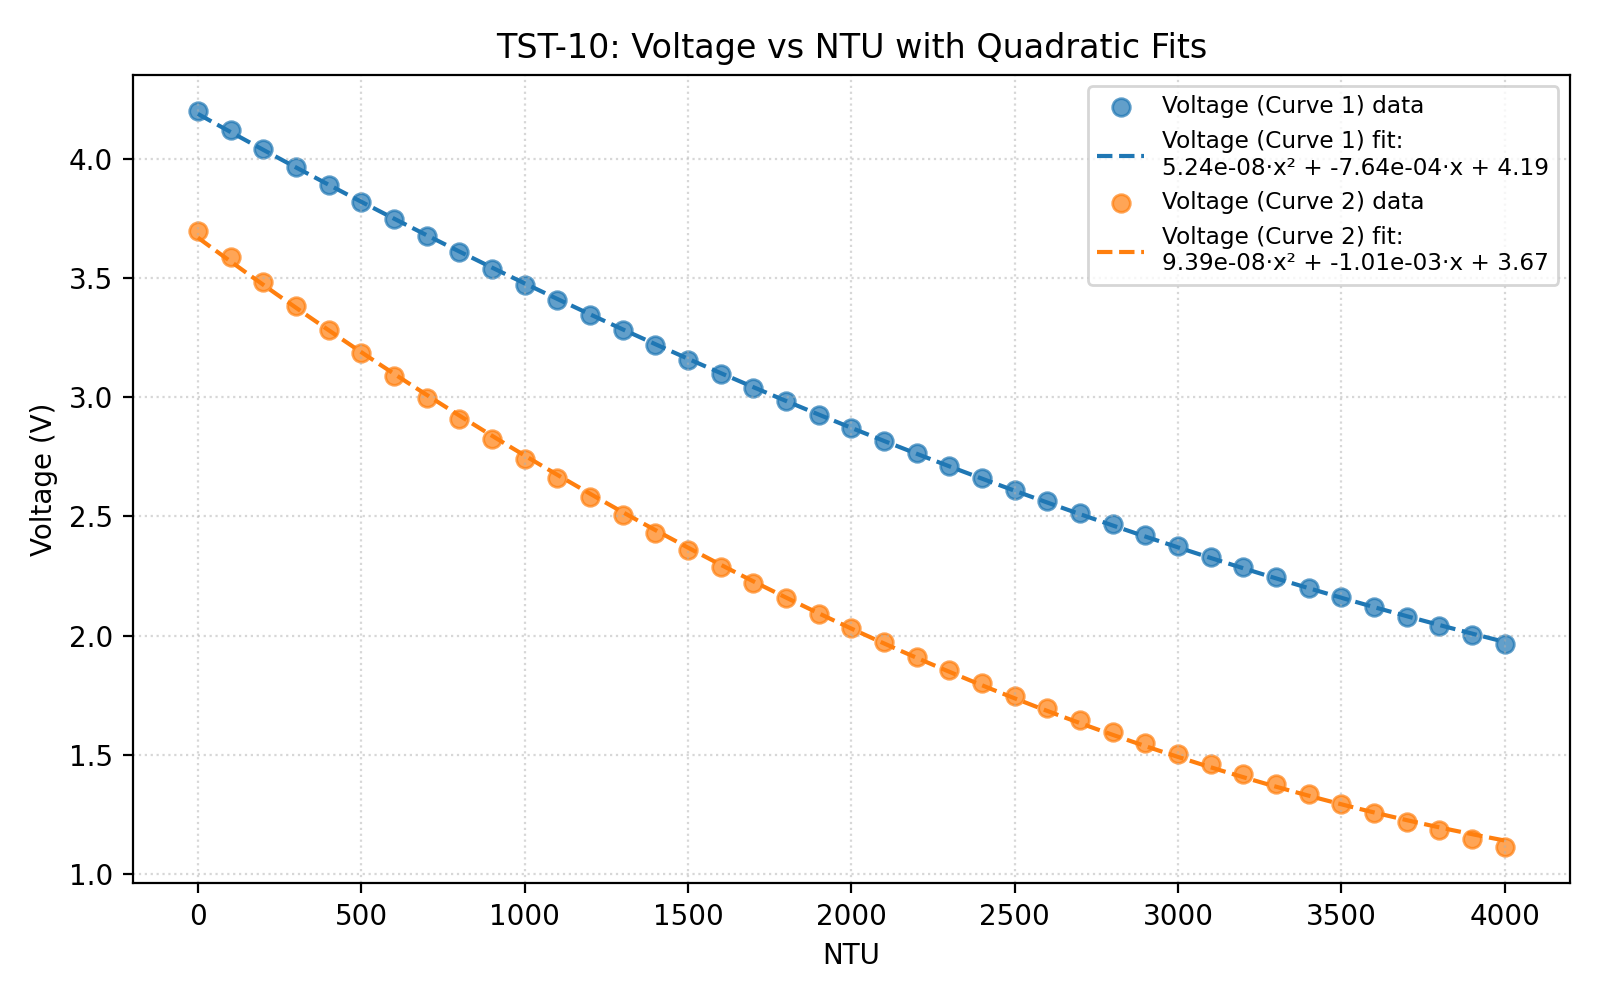
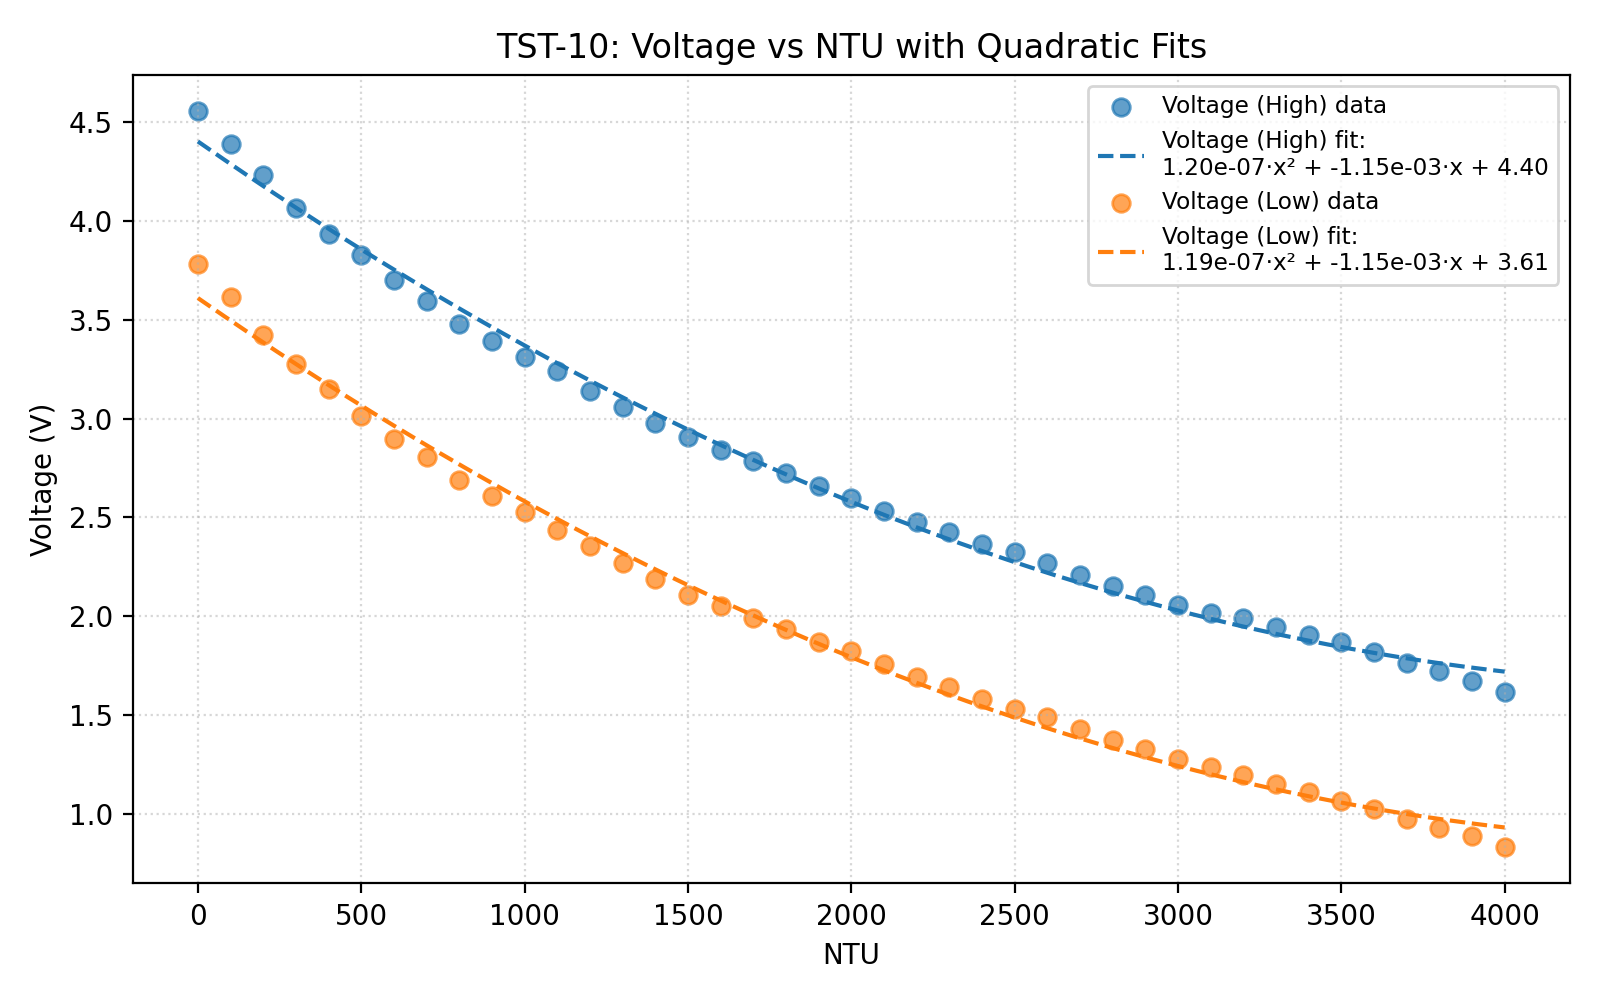
feat: add script for creating unified csv from webplotviewer data and plot accordingly

diff --git a/calibration/generate_calibration_csvs.py b/calibration/generate_calibration_csvs.py
@@ -1,0 +1,124 @@
+#!/usr/bin/env python3
+import csv
+import os
+import sys
+from bisect import bisect_left
+from collections import defaultdict
+
+
+class CalibrationDataError(Exception):
+    pass
+
+
+def load_vendor_curve(csv_path):
+    if not os.path.isfile(csv_path):
+        raise CalibrationDataError(f"Missing vendor CSV: {csv_path}")
+
+    buckets = defaultdict(list)
+    with open(csv_path, newline="", encoding="utf-8") as handle:
+        reader = csv.reader(handle)
+        for line_number, row in enumerate(reader, start=1):
+            if not row:
+                continue
+            if len(row) != 2:
+                raise CalibrationDataError(
+                    f"Malformed row in {csv_path}:{line_number}: expected 2 columns"
+                )
+
+            try:
+                voltage = float(row[0].strip())
+                ntu = float(row[1].strip())
+            except ValueError as exc:
+                raise CalibrationDataError(
+                    f"Malformed numeric value in {csv_path}:{line_number}"
+                ) from exc
+
+            buckets[ntu].append(voltage)
+
+    if len(buckets) < 2:
+        raise CalibrationDataError(
+            f"Not enough unique points in {csv_path} to interpolate calibration data"
+        )
+
+    curve = []
+    for ntu in sorted(buckets):
+        voltages = buckets[ntu]
+        curve.append((ntu, sum(voltages) / len(voltages)))
+    return curve
+
+
+def interpolate_curve(curve, target_ntu):
+    ntu_values = [point[0] for point in curve]
+    idx = bisect_left(ntu_values, target_ntu)
+
+    if idx < len(curve) and curve[idx][0] == target_ntu:
+        return curve[idx][1]
+
+    if idx == 0:
+        left, right = curve[0], curve[1]
+    elif idx == len(curve):
+        left, right = curve[-2], curve[-1]
+    else:
+        left, right = curve[idx - 1], curve[idx]
+
+    ntu0, voltage0 = left
+    ntu1, voltage1 = right
+    if ntu1 == ntu0:
+        return voltage0
+
+    fraction = (target_ntu - ntu0) / (ntu1 - ntu0)
+    return voltage0 + fraction * (voltage1 - voltage0)
+
+
+def write_calibration_csv(output_path, high_curve, low_curve, max_ntu):
+    with open(output_path, "w", newline="", encoding="utf-8") as handle:
+        writer = csv.writer(handle)
+        writer.writerow(["NTU", "Voltage (High)", "Voltage (Low)"])
+
+        for ntu in range(0, max_ntu + 1, 100):
+            high_voltage = interpolate_curve(high_curve, ntu)
+            low_voltage = interpolate_curve(low_curve, ntu)
+            writer.writerow(
+                [ntu, f"{high_voltage:.3f}", f"{low_voltage:.3f}"]
+            )
+
+
+def generate_sensor_csvs(calibration_dir):
+    sensors = [
+        {
+            "slug": "tst10",
+            "label": "TST-10",
+            "max_ntu": 4000,
+        },
+        {
+            "slug": "tsw10",
+            "label": "TSW-10",
+            "max_ntu": 2000,
+        },
+    ]
+
+    vendor_dir = os.path.join(calibration_dir, "vendor-data")
+
+    for sensor in sensors:
+        high_path = os.path.join(vendor_dir, f"{sensor['slug']}-high.csv")
+        low_path = os.path.join(vendor_dir, f"{sensor['slug']}-low.csv")
+        output_path = os.path.join(calibration_dir, f"{sensor['slug']}-calibration.csv")
+
+        high_curve = load_vendor_curve(high_path)
+        low_curve = load_vendor_curve(low_path)
+        write_calibration_csv(output_path, high_curve, low_curve, sensor["max_ntu"])
+        print(f"Generated {sensor['label']} calibration CSV: {output_path}")
+
+
+def main():
+    calibration_dir = os.path.dirname(os.path.abspath(__file__))
+    try:
+        generate_sensor_csvs(calibration_dir)
+    except CalibrationDataError as exc:
+        print(f"ERROR: {exc}", file=sys.stderr)
+        return 1
+    return 0
+
+
+if __name__ == "__main__":
+    raise SystemExit(main())

diff --git a/calibration/plot.py b/calibration/plot.py
@@ -11,7 +11,7 @@ import matplotlib.pyplot as plt
 
 def plot_sensor(csv_path, sensor_label, output_path):
     """
-    Reads a CSV with columns [NTU, Voltage (Curve 1), Voltage (Curve 2)],
+    Reads a CSV with columns [NTU, Voltage (High), Voltage (Low)],
     then plots raw data + quadratic fits for both curves on its own figure.
     """
     df = pd.read_csv(csv_path)
@@ -19,7 +19,7 @@ def plot_sensor(csv_path, sensor_label, output_path):
 
     fig, ax = plt.subplots(figsize=(8, 5))
     for curve_col, color in zip(
-        ["Voltage (Curve 1)", "Voltage (Curve 2)"], ["C0", "C1"]
+        ["Voltage (High)", "Voltage (Low)"], ["C0", "C1"]
     ):
         y = df[curve_col].values
 
@@ -49,8 +49,8 @@ def plot_sensor(csv_path, sensor_label, output_path):
 if __name__ == "__main__":
     cal_dir = os.path.dirname(os.path.abspath(__file__))
     sensors = [
-        ("Voltage_vs_NTU_TST-10.csv", "TST-10", "tst10-plot.png"),
-        ("Voltage_vs_NTU_TSW-10.csv", "TSW-10", "tsw10-plot.png"),
+        ("tst10-calibration.csv", "TST-10", "tst10-plot.png"),
+        ("tsw10-calibration.csv", "TSW-10", "tsw10-plot.png"),
     ]
 
     for csv_name, label, output_name in sensors:

diff --git a/calibration/README.md b/calibration/README.md
@@ -1,3 +1,20 @@
 # Calibration
 
-`tst10-plot.png` and `tsw10-plot.png` are plots of the calibration curves for the TST-10 and TSW-10 turbidity sensors, respectively which are plotted from `Voltage_vs_NTU_TST-10.csv` and `Voltage_vs_NTU_TSW-10.csv`. THose two csv files were created using `vendor-data/tst10-*` and `vendor-data/tsw10-*` CSV files, which were created using WebPlotDigitizer to extract data points from the calibration curves provided in the datasheets for the TSW-10 and TST-10 turbidity sensors.
+`vendor-data/` contains the raw WebPlotDigitizer exports from the vendor datasheets.
+
+`generate_calibration_csvs.py` converts those raw `voltage, NTU` point clouds into the
+canonical calibration tables:
+
+- `tst10-calibration.csv`
+- `tsw10-calibration.csv`
+
+Those generated CSVs contain three columns:
+
+- `NTU`
+- `Voltage (High)`
+- `Voltage (Low)`
+
+`plot.py` reads the generated CSVs and writes the derived plot images:
+
+- `tst10-plot.png`
+- `tsw10-plot.png`

diff --git a/calibration/vendor-data/README.md b/calibration/vendor-data/README.md
@@ -1,6 +1,13 @@
 # Vendor Data
 
-The following files were created using WebPlotDigitizer to extract data points from the calibration curves provided in the datasheets for the TSW-10 and TST-10 turbidity sensors. These images are located in `tst10-plot.png` and `tsw10-plot.png`. The extracted data points are saved in the following CSV files:
+The following files were created using WebPlotDigitizer to extract data points from the
+calibration curves provided in the datasheets for the TSW-10 and TST-10 turbidity sensors.
+The source images are:
+
+- `tst10-datasheet-plot.png`
+- `tsw10-datasheet-plot.png`
+
+The extracted raw CSV files are:
 
 - `tst10-high.csv`
 - `tst10-low.csv`
